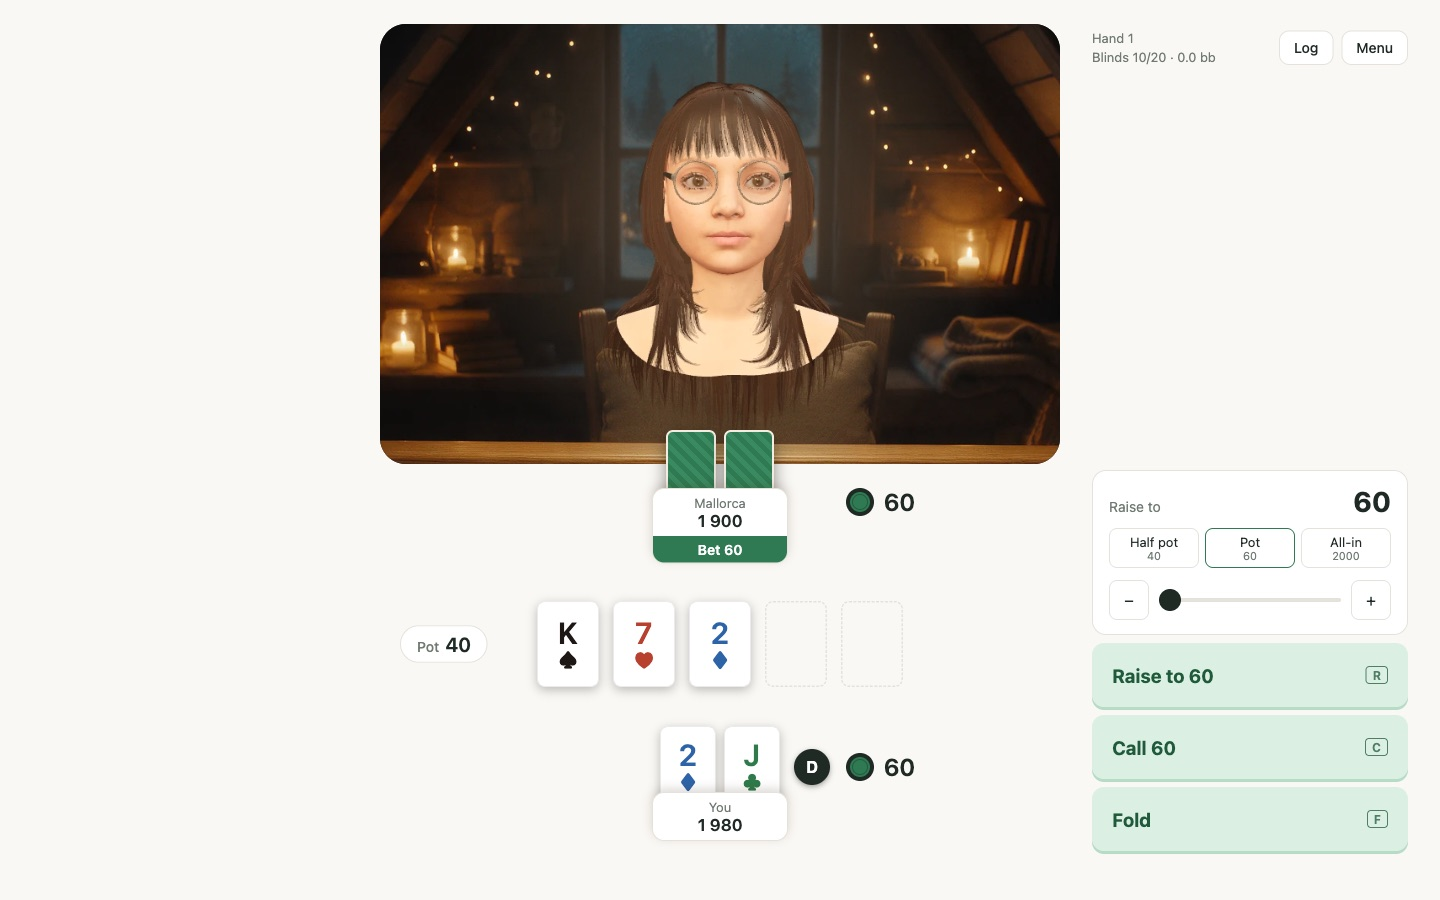
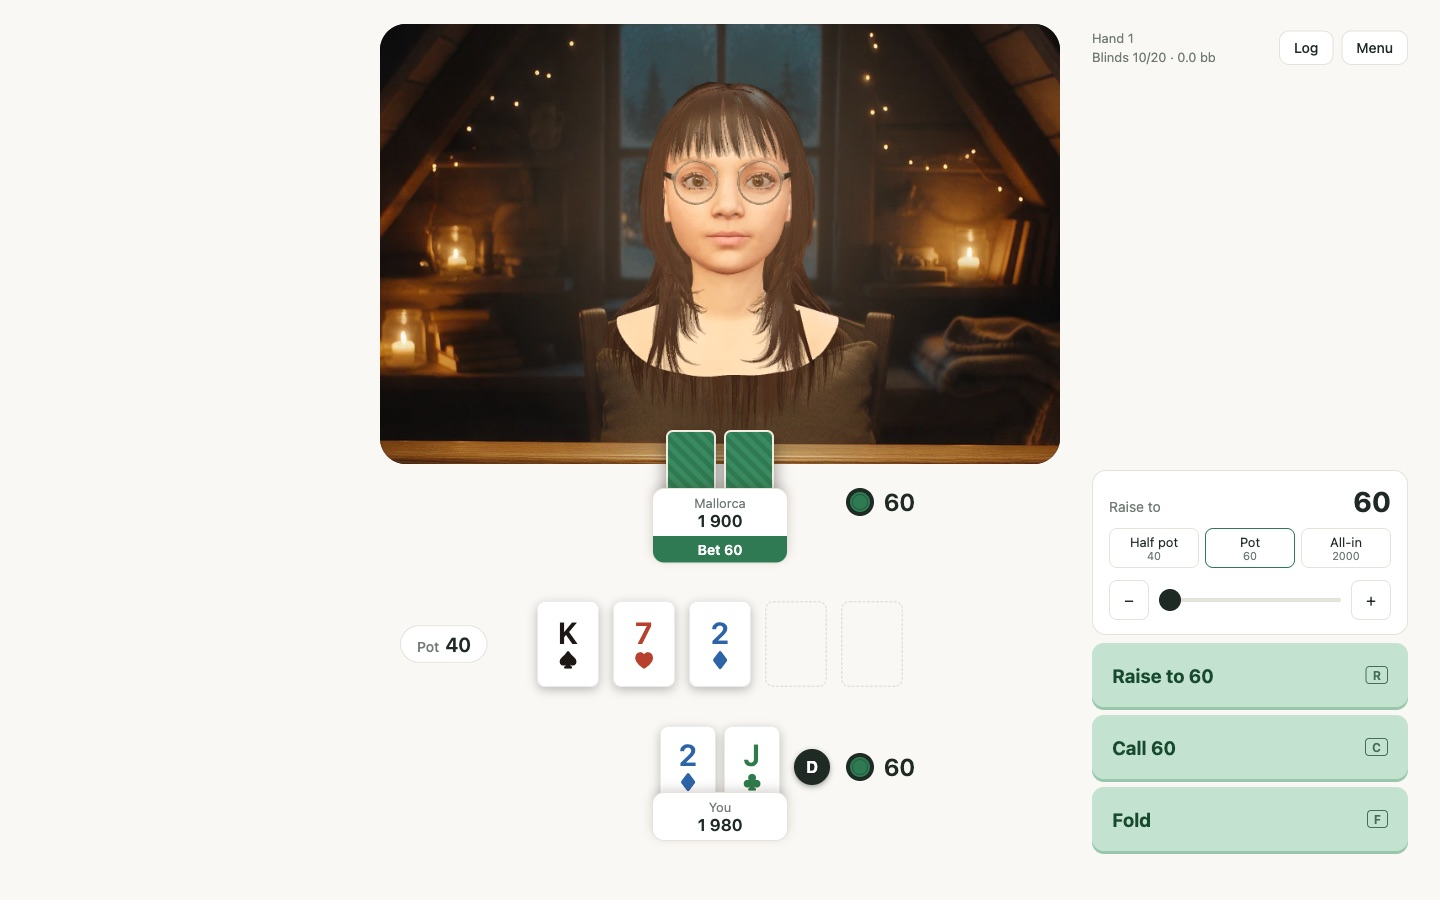
docs: darker action buttons in the table spec

Changed region(s): [[0.75, 0.7156, 0.9688, 0.9644]]

diff --git a/docs/design/table-rework/spec.md b/docs/design/table-rework/spec.md
@@ -87,14 +87,14 @@ longer changes the screen.
 | `--color-muted` | `#646e68` | names, captions, `Pot`, hand and blinds line |
 | `--color-accent` | `#2f7a52` | action strip, chips, card backs, selected size preset |
 | `--color-accent-text` | `#ffffff` | text on the accent |
-| `--color-action` | `#dcefe3` | Raise, Call and Fold buttons |
-| `--color-action-text` | `#1f5a3a` | their labels and key hints |
-| `--color-action-edge` | `#b7dcc6` | the step shadow under them |
+| `--color-action` | `#c3e2cf` | Raise, Call and Fold buttons |
+| `--color-action-text` | `#174a2f` | their labels and key hints |
+| `--color-action-edge` | `#98c7ab` | the step shadow under them |
 | `--color-paper` | `#1f2a24` | dealer button (dark filled) |
 | `--color-paper-text` | `#ffffff` | text on it |
 | `--color-card-face` | `#ffffff` | card faces, with a hairline edge and a soft shadow |
 
-Checked contrast: text on bg 14.0:1, accent text on accent 5.2:1, button text on button 6.8:1, muted on surface 5.3:1 and on bg 5.0:1.
+Checked contrast: text on bg 14.0:1, accent text on accent 5.2:1, button text on button 7.3:1, muted on surface 5.3:1 and on bg 5.0:1.
 `contrast.test.ts` keeps its pairs; tokens it checks that this table does not use (felt, coach, her surface,
 danger) get light values that pass it.
 
